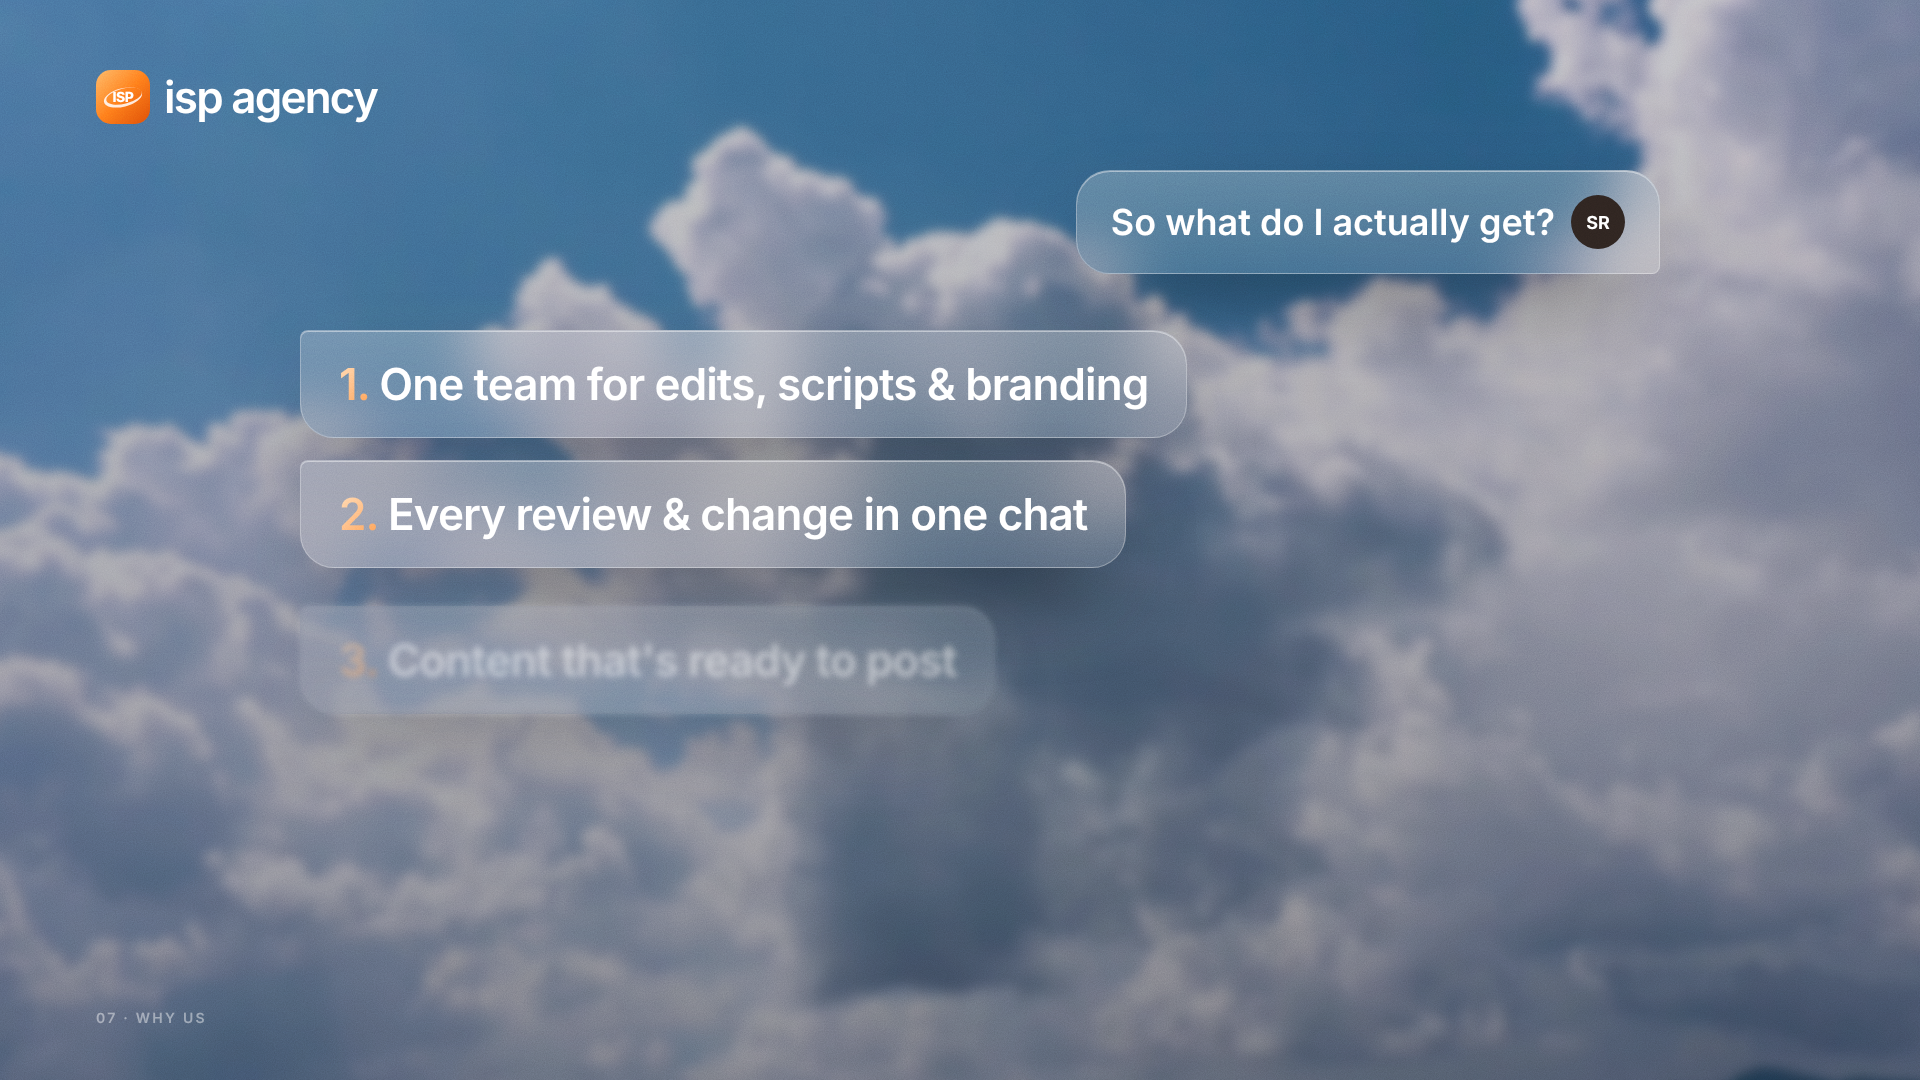
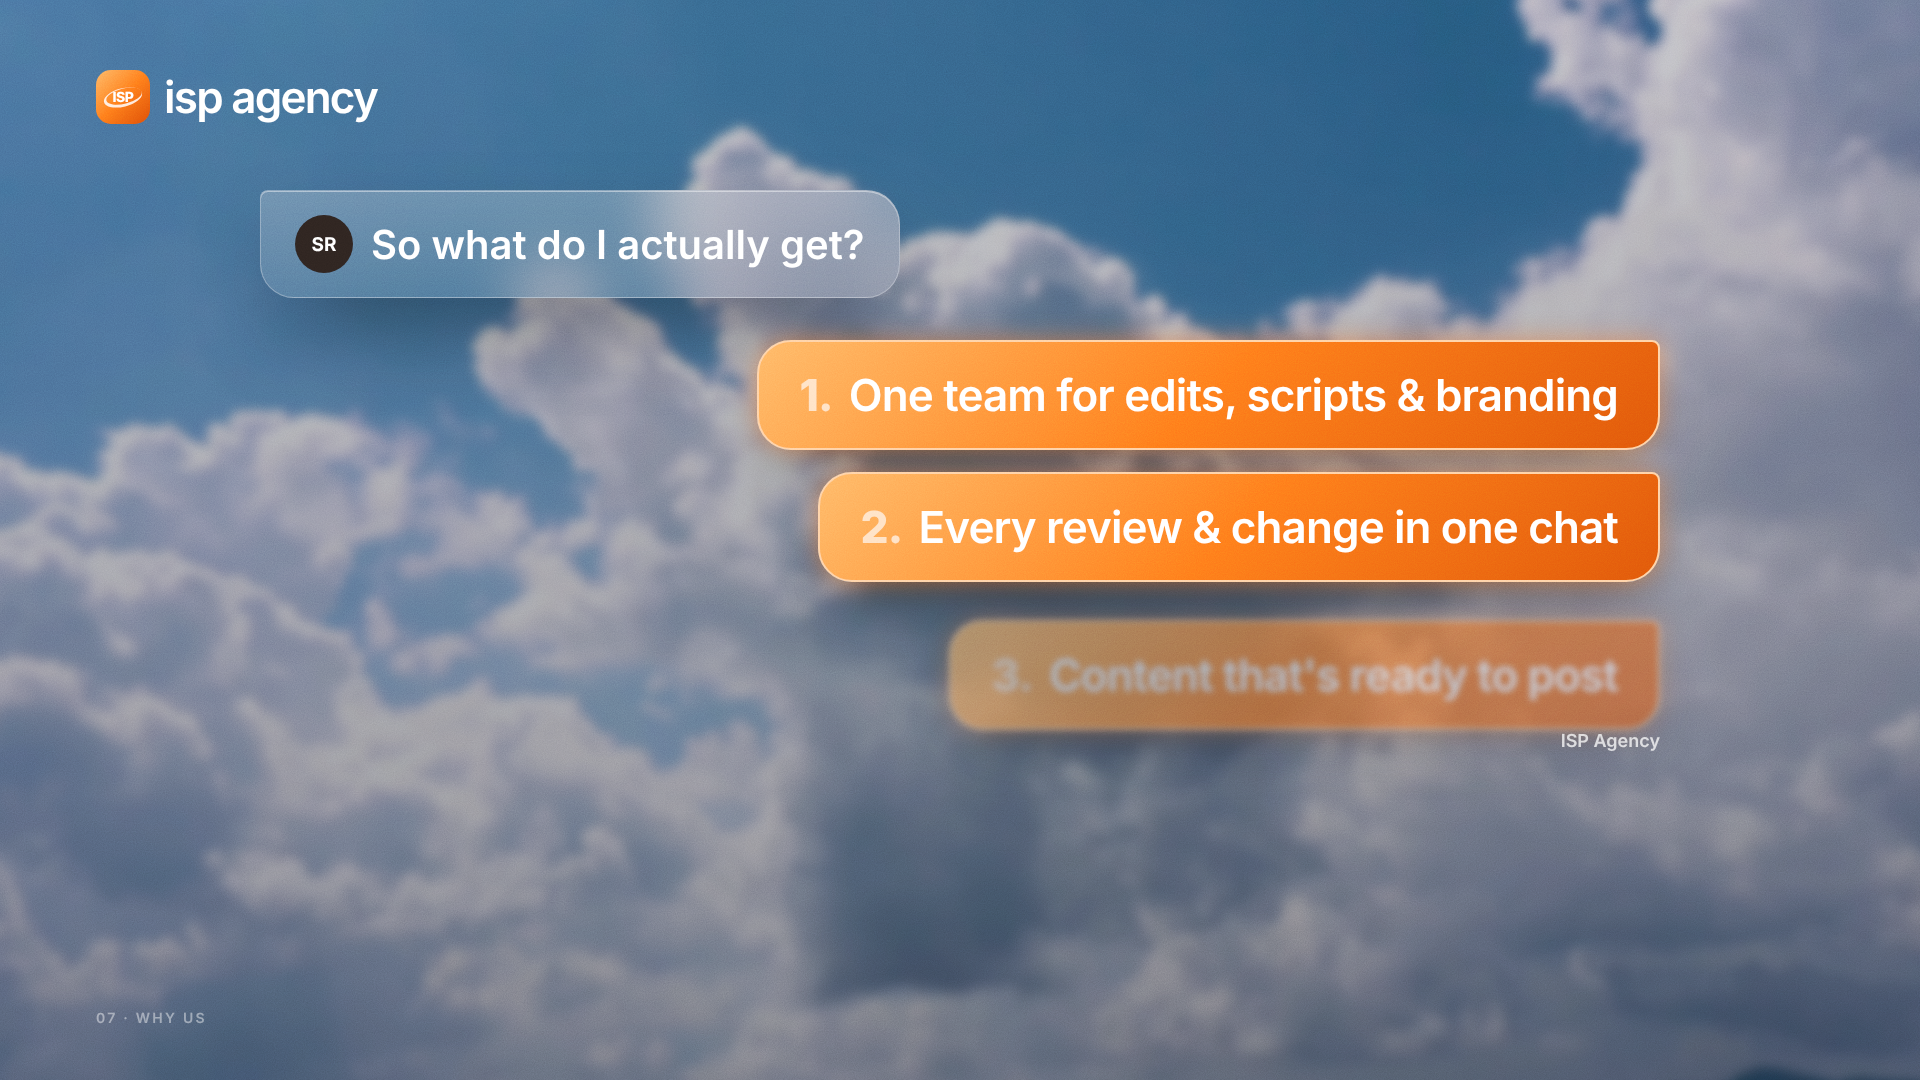
Scene 7: client question on the left, ISP's three answers on the right
Claude-Session: https://claude.ai/code/session_01Bj9t4eoNshp9YTvqmcnpVD

Changed region(s): [[0.125, 0.1528, 0.875, 0.7028], [0.1562, 0.55, 0.1875, 0.5806]]

diff --git a/launch/styleframes.html b/launch/styleframes.html
@@ -30,6 +30,8 @@ body{background:#333;font-family:Inter,sans-serif}
 .caret{display:inline-block;width:4px;height:1em;background:#fff;vertical-align:-.12em;margin-left:4px;border-radius:2px}
 .nat{position:absolute;inset:-40px;background-size:cover;background-position:center;transform:scale(1.04)}
 .frameline{position:absolute;inset:26px;border:2px solid rgba(255,255,255,.55);border-radius:34px;z-index:58;pointer-events:none}
+.ans{padding:26px 40px;border-radius:34px;border-top-right-radius:8px;font:600 44px Inter;letter-spacing:-.02em;white-space:nowrap;background:linear-gradient(135deg,#FFB866,#FF7A1A 50%,#E0560A);border:2px solid #FFD2A6;box-shadow:0 0 24px rgba(255,130,40,.55),0 30px 60px -20px rgba(0,0,0,.45)}
+.ans b{color:#FFF1E2;opacity:.8;margin-right:6px}
 </style>
 </head>
 <body>
@@ -384,12 +386,15 @@ body{background:#333;font-family:Inter,sans-serif}
   <div class="abs" style="left:96px;top:70px;display:flex;align-items:center;gap:14px;font:600 44px Inter;letter-spacing:-.04em">
     <div style="width:54px;height:54px;border-radius:15px;background:var(--acc);display:grid;place-items:center"><svg width="44" height="27"><use href="#isp"/></svg></div>isp agency</div>
   <div class="label">07 · Why us</div>
-  <div class="abs glassD" style="right:260px;top:170px;border-radius:34px;border-bottom-right-radius:8px;padding:24px 34px;font:600 36px Inter;display:flex;gap:16px;align-items:center">
-    So what do I actually get? <span style="width:54px;height:54px;border-radius:50%;background:#2E2420;display:grid;place-items:center;font:700 18px Inter">SR</span></div>
-  <div class="abs" style="left:300px;top:330px;display:flex;flex-direction:column;gap:22px;align-items:flex-start">
-    <div class="glassD" style="border-radius:34px;border-top-left-radius:8px;padding:26px 38px;font:600 44px Inter;letter-spacing:-.02em"><span class="acc-t" style="background-image:linear-gradient(135deg,#FFE0BC,#FF9A4A)">1.</span> One team for edits, scripts &amp; branding</div>
-    <div class="glassD" style="border-radius:34px;border-top-left-radius:8px;padding:26px 38px;font:600 44px Inter;letter-spacing:-.02em"><span class="acc-t" style="background-image:linear-gradient(135deg,#FFE0BC,#FF9A4A)">2.</span> Every review &amp; change in one chat</div>
-    <div class="glassD" style="border-radius:34px;border-top-left-radius:8px;padding:26px 38px;font:600 44px Inter;letter-spacing:-.02em;opacity:.55;filter:blur(3px);transform:translateY(16px)"><span class="acc-t" style="background-image:linear-gradient(135deg,#FFE0BC,#FF9A4A)">3.</span> Content that's ready to post</div>
+  <!-- client question: LEFT -->
+  <div class="abs glassD" style="left:260px;top:190px;border-radius:34px;border-top-left-radius:8px;padding:24px 34px;font:600 40px Inter;display:flex;gap:18px;align-items:center">
+    <span style="width:58px;height:58px;border-radius:50%;background:#2E2420;display:grid;place-items:center;font:700 19px Inter">SR</span>So what do I actually get?</div>
+  <!-- ISP answers: RIGHT, orange like the scene 4 reply -->
+  <div class="abs" style="right:260px;top:340px;display:flex;flex-direction:column;gap:22px;align-items:flex-end">
+    <div class="ans"><b>1.</b> One team for edits, scripts &amp; branding</div>
+    <div class="ans"><b>2.</b> Every review &amp; change in one chat</div>
+    <div class="ans" style="opacity:.55;filter:blur(3px);transform:translateY(16px)"><b>3.</b> Content that's ready to post</div>
+    <div style="font:600 18px Inter;opacity:.75;margin-top:-6px">ISP Agency</div>
   </div>
   <svg class="grain" width="1920" height="1080"><rect width="100%" height="100%" filter="url(#noise)"/></svg>
 </section>
